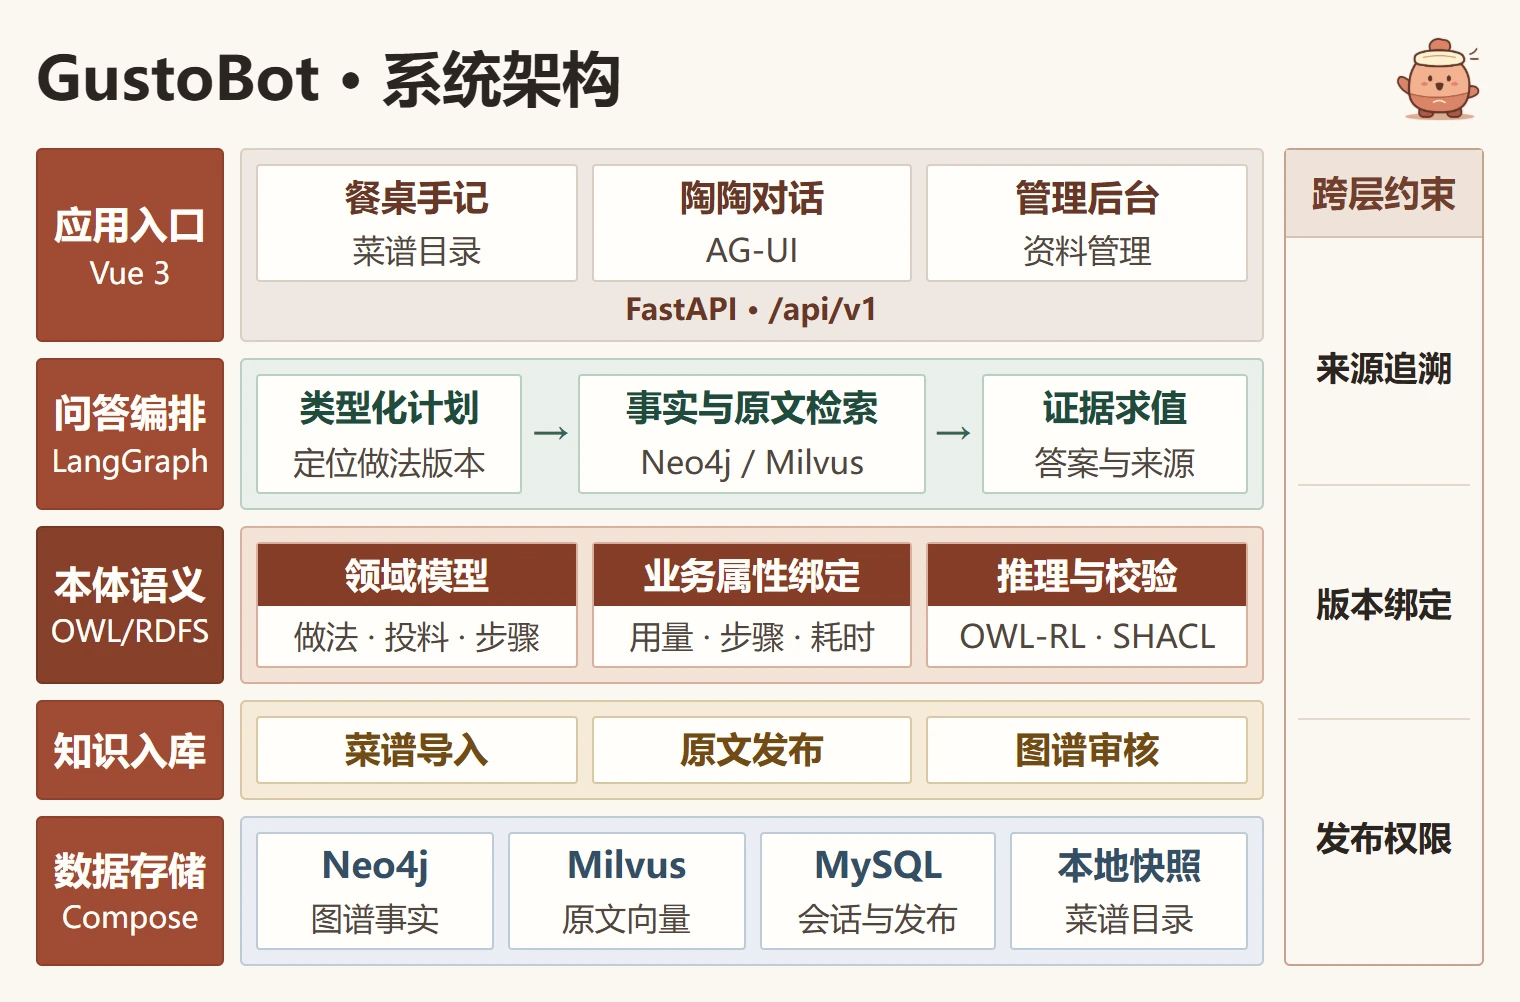
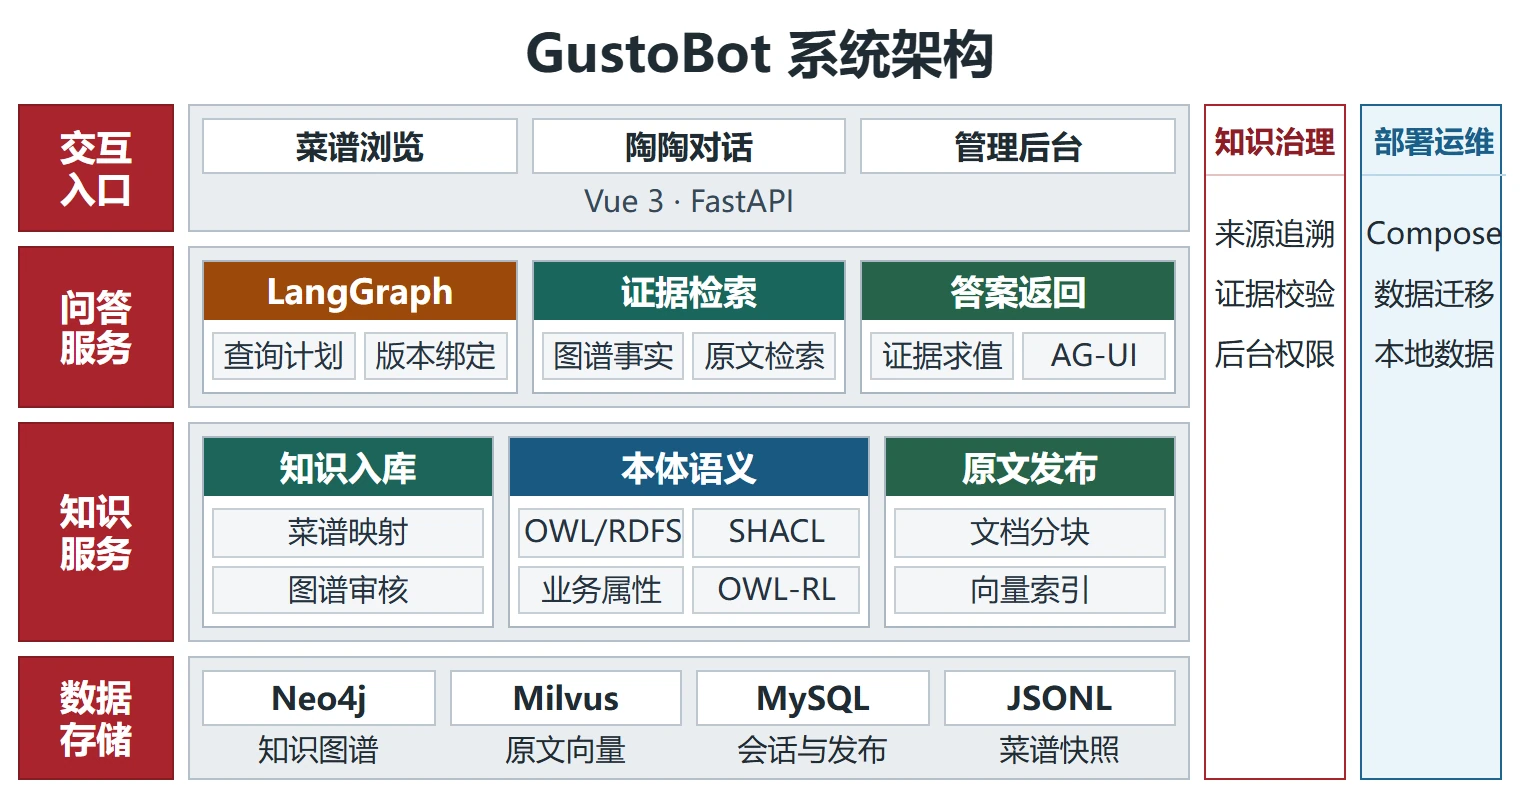
让架构图在 GitHub 正文里保持合适的图幅
按参考图排成四层与双侧栏，本体语义放在知识服务层中央。
图中使用模块名和技术短标签，README 中的显示宽度为 760 像素。

Scope-risk: narrow
Tested: Chromium 检查四层双栏和文字溢出，目视核对两种正文宽度，验证 WebP 和 README 链接

diff --git a/README.md b/README.md
@@ -50,7 +50,7 @@ docker compose --env-file .env up -d --build
 
 <p align="center">
   <a href="./docs/assets/gustobot-architecture.webp?raw=true">
-    <img src="./docs/assets/gustobot-architecture.webp" width="100%" alt="GustoBot 系统架构，包含 Vue 与 FastAPI 入口、LangGraph 问答、本体语义、资料入库及 Neo4j、Milvus、MySQL">
+    <img src="./docs/assets/gustobot-architecture.webp" width="760" alt="GustoBot 的交互入口、问答服务、知识服务和数据存储，以及贯穿各层的知识治理与部署运维">
   </a><br>
   <a href="./docs/assets/gustobot-architecture.webp?raw=true">查看高清架构图</a>
 </p>
